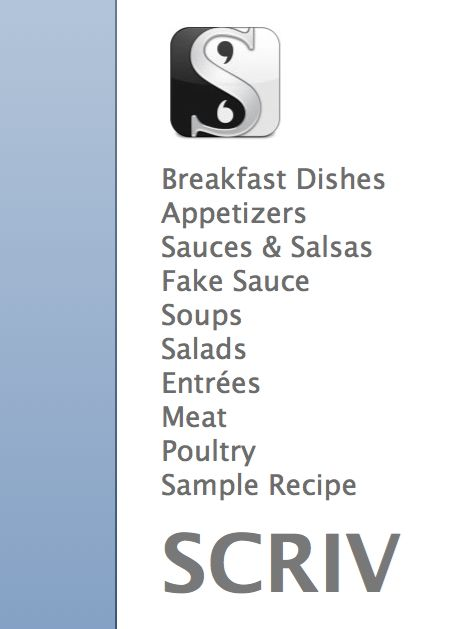
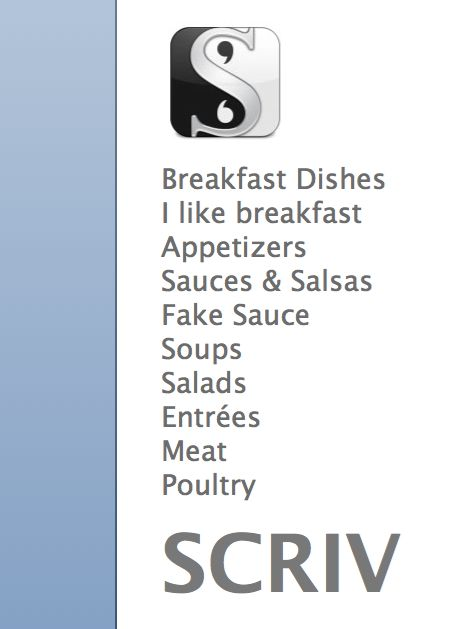
manually changing rtf to md

Changed region(s): [[0.3263, 0.3021, 0.8008, 0.8156]]

diff --git a/test-project.scriv/QuickLook/Preview.html b/test-project.scriv/QuickLook/Preview.html
@@ -30,6 +30,13 @@
 <li>
 <p class="binderItem"><strong>Breakfast Dishes</strong></p>
 </li>
+<hr/>
+<ul>
+<li>
+<p class="binderItem"><strong>I like breakfast</strong><br/>#I like breakfast. </p>
+</li>
+</ul>
+<hr/>
 <li>
 <p class="binderItem"><strong>Appetizers</strong></p>
 </li>
@@ -39,7 +46,7 @@
 <hr/>
 <ul>
 <li>
-<p class="binderItem"><strong>Fake Sauce</strong><br/>A made up recipe: no promises that this will work. Could be good, though.</p>
+<p class="binderItem"><strong>Fake Sauce</strong><br/>#A made up recipe: no promises that this will work. Could be good, though.</p>
 </li>
 </ul>
 <hr/>

diff --git a/another-project/neatoproject.scriv/Files/Docs/4.md b/another-project/neatoproject.scriv/Files/Docs/4.md
@@ -1,0 +1,6 @@
+{\rtf1\ansi\ansicpg1252\cocoartf1265\cocoasubrtf210
+{\fonttbl\f0\fnil\fcharset0 Cochin;}
+{\colortbl;\red255\green255\blue255;}
+\pard\tx720\tx1440\tx2160\tx2880\tx3600\tx4320\fi360\sl288\slmult1\pardirnatural
+
+\f0\fs28 \cf0 Blah blah blah}
